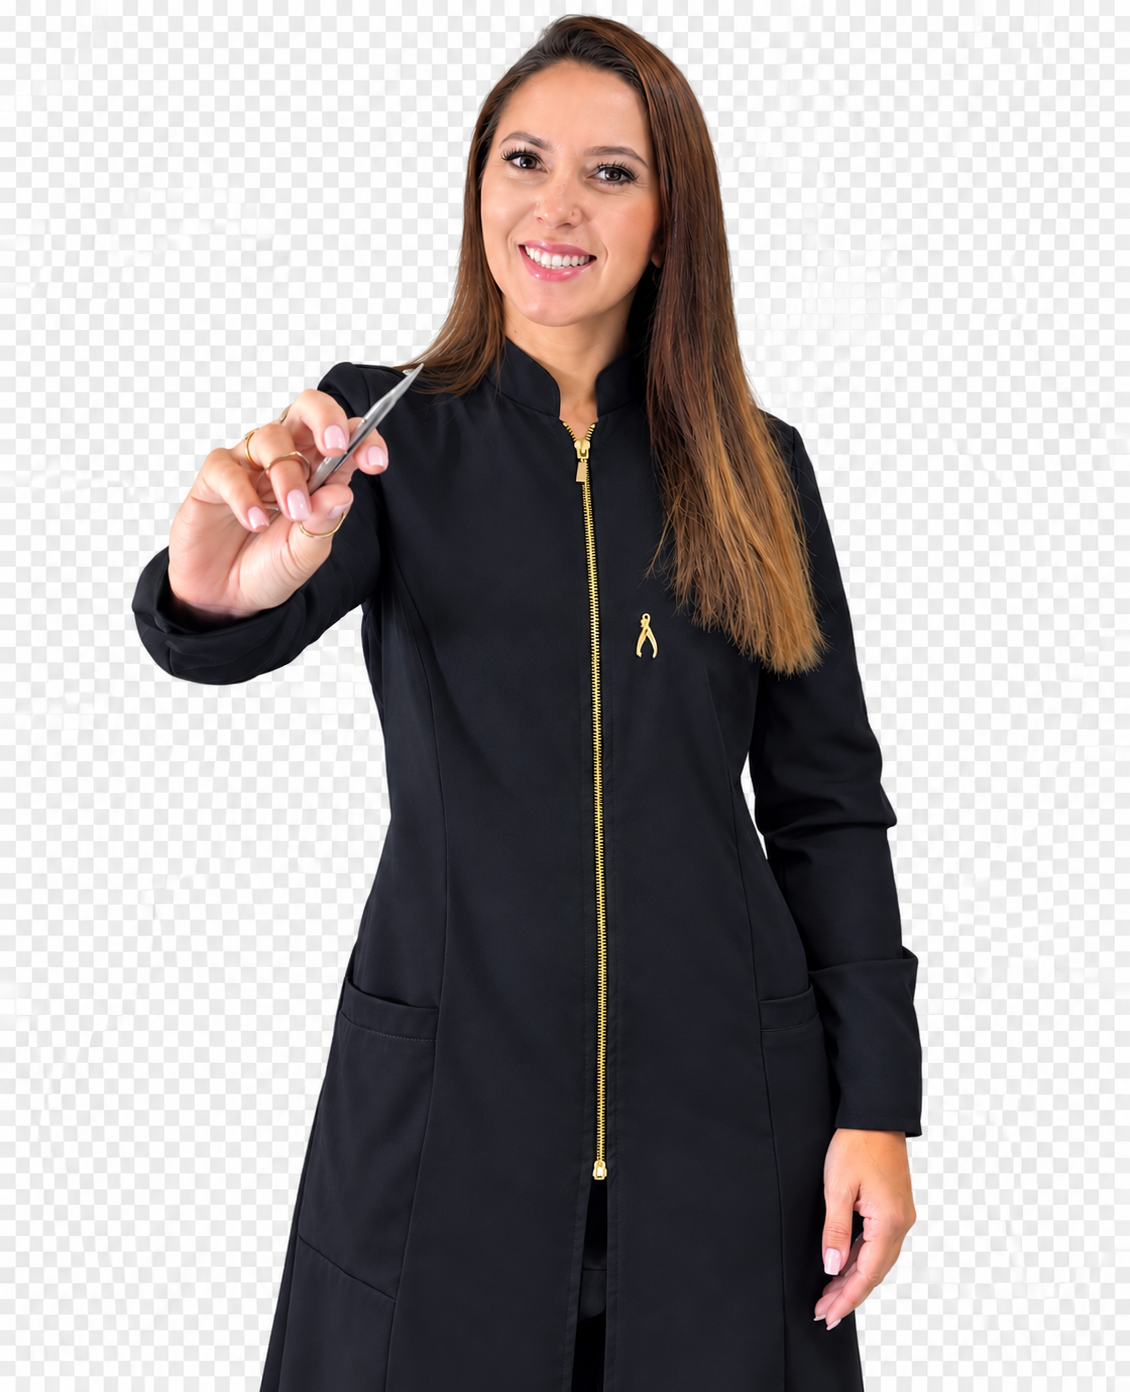
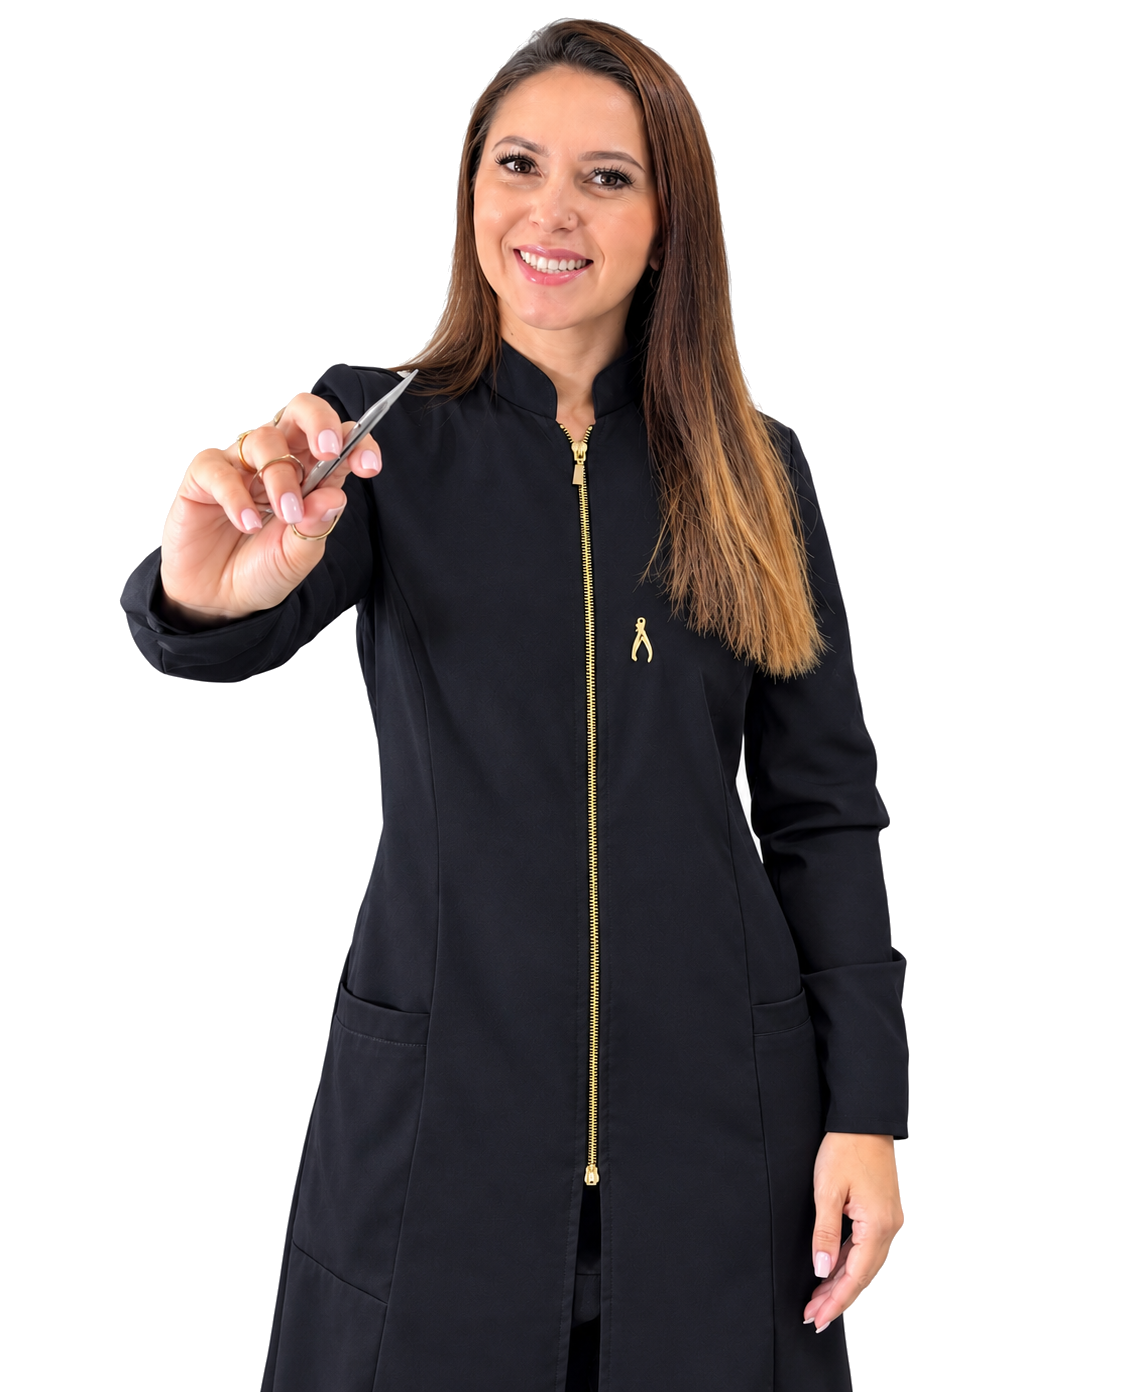
.

diff --git a/html/principal.html b/html/principal.html
@@ -63,7 +63,7 @@
                 <p id="botao-hero"><a href="#cursos">QUERO CONHECER OS CURSOS</a></p>
             </div>
             <div id="img-hero">
-                <img id="img-heroM" src="../images/prof-01-trans.png" alt="Clariana em seu ambiente de trabalho">
+                <img id="img-heroM" src="../images/prof-semfundo.png" alt="Clariana em seu ambiente de trabalho">
                 <img id="img-heroD" src="../images/profissional-2.jpeg" alt="Clariana em um retrato profissional">
             </div>
         </section>
